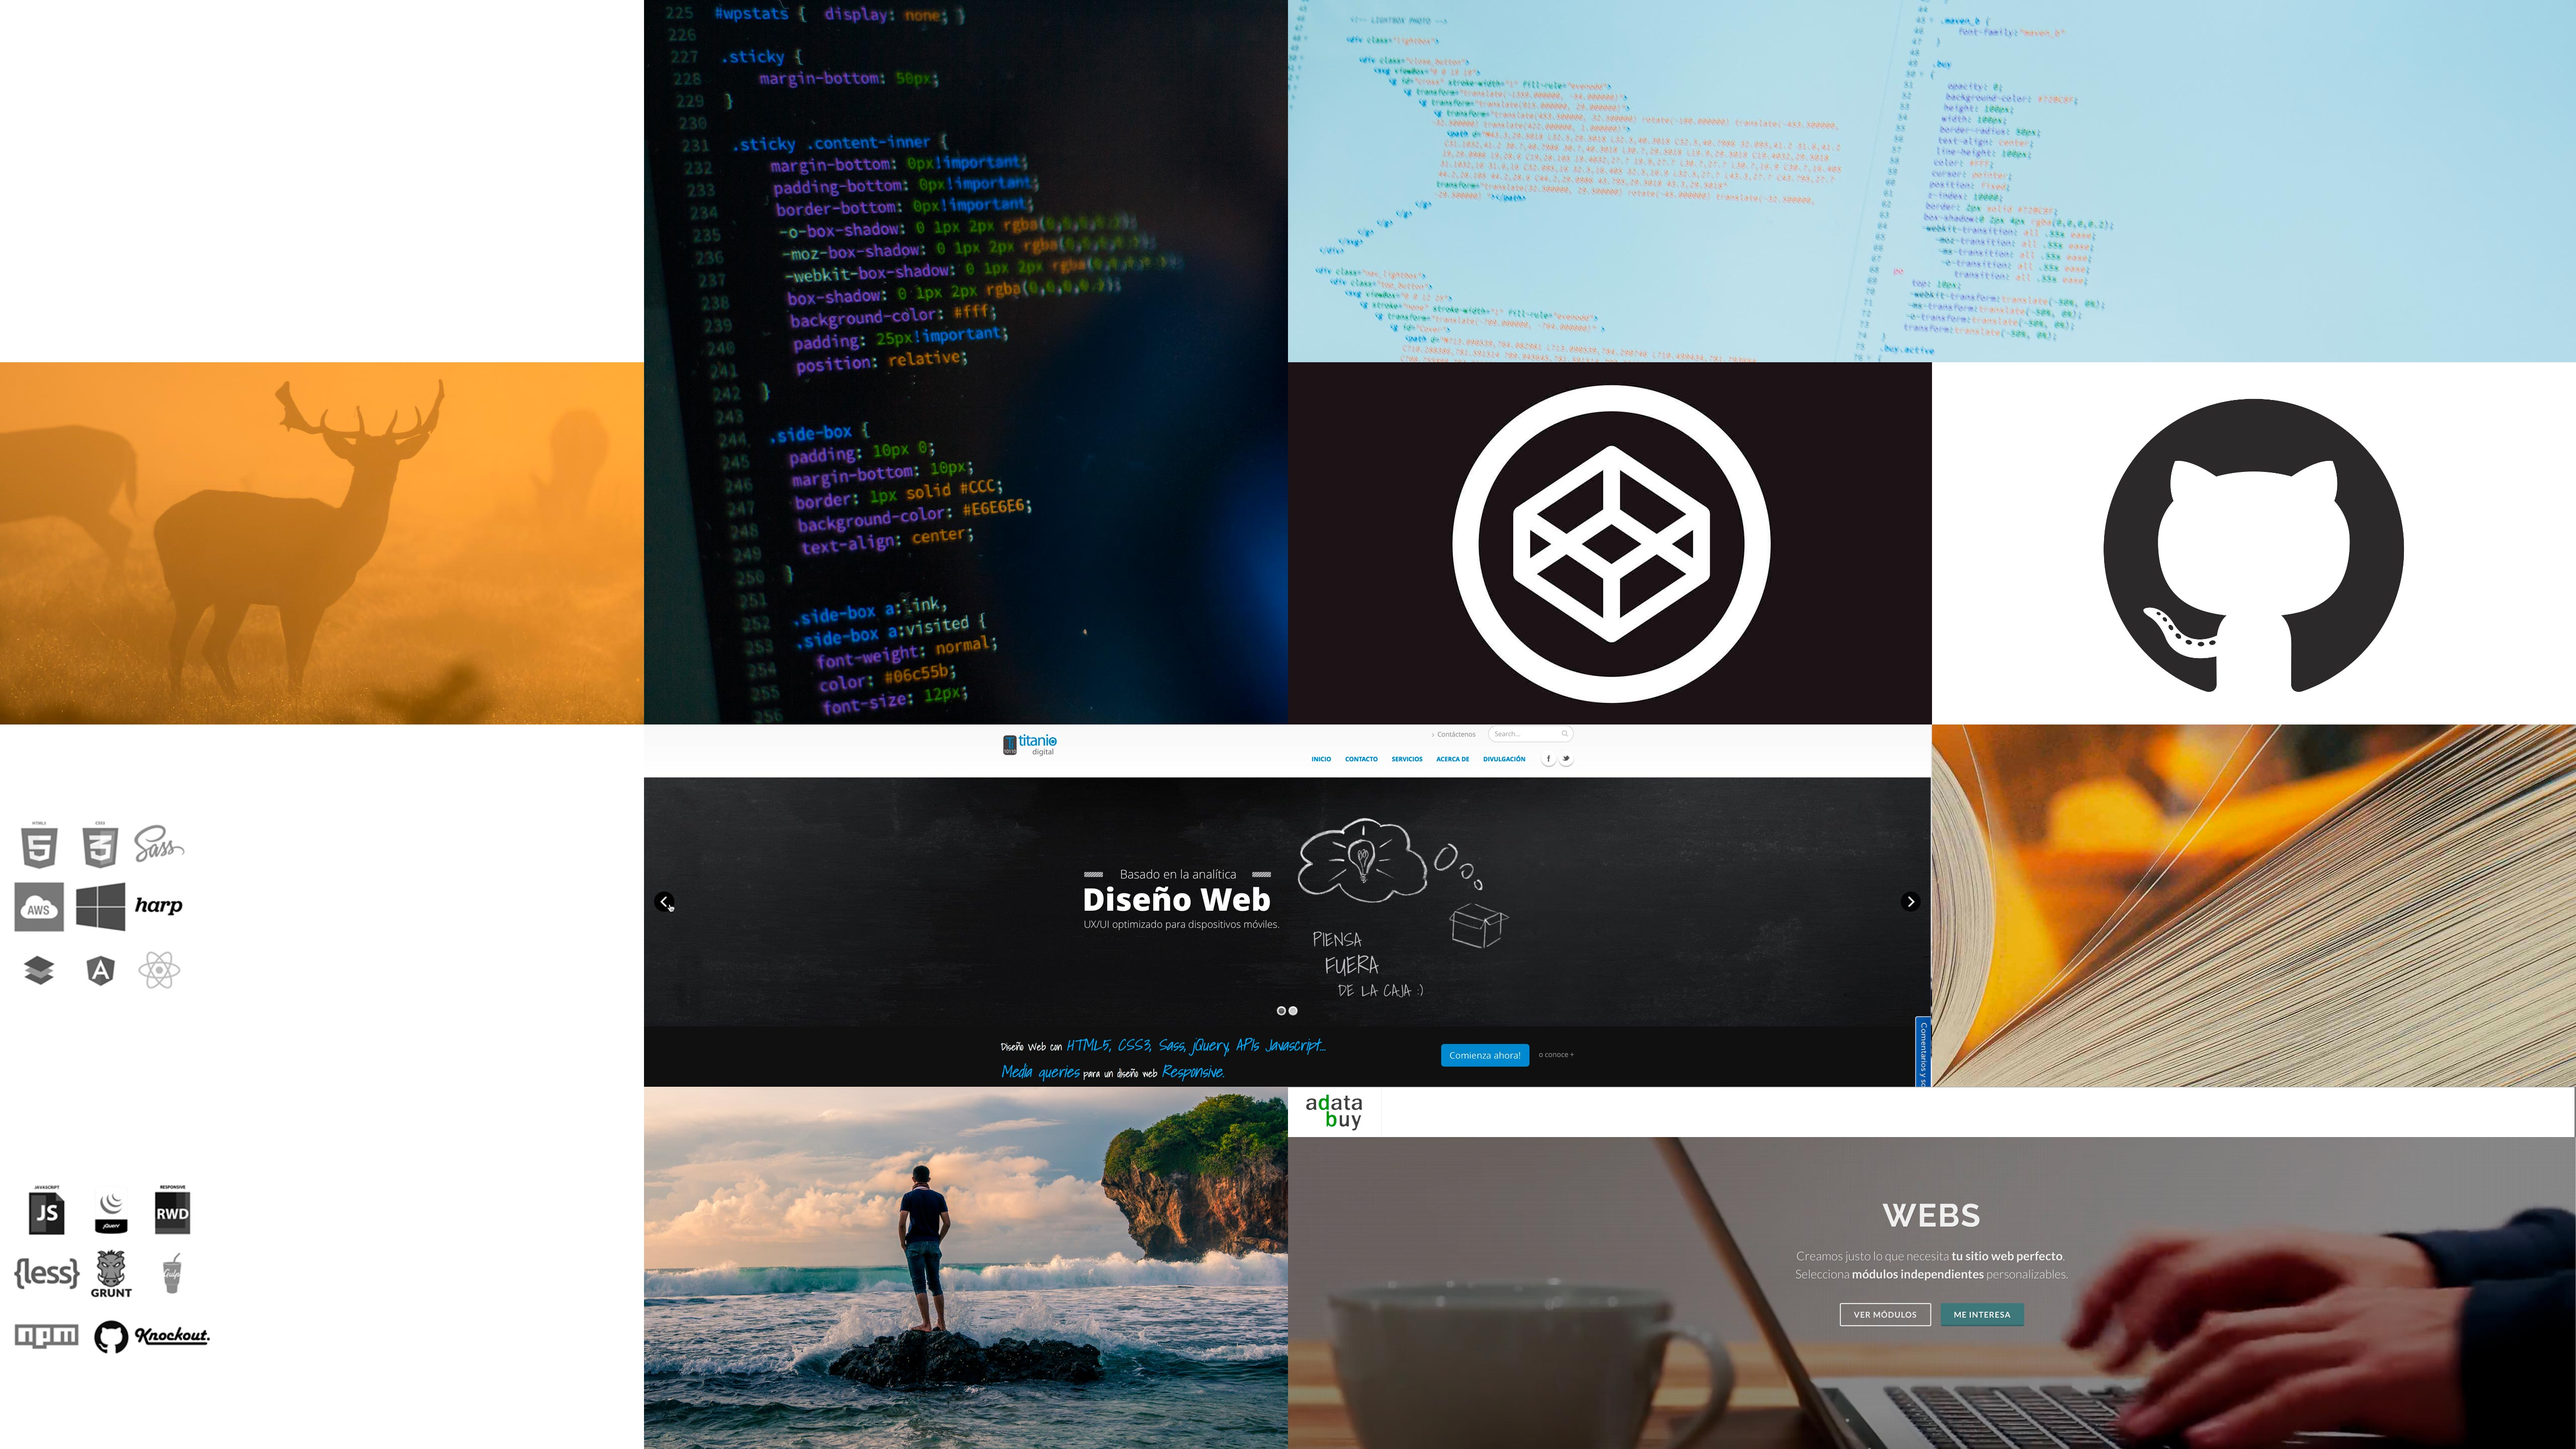
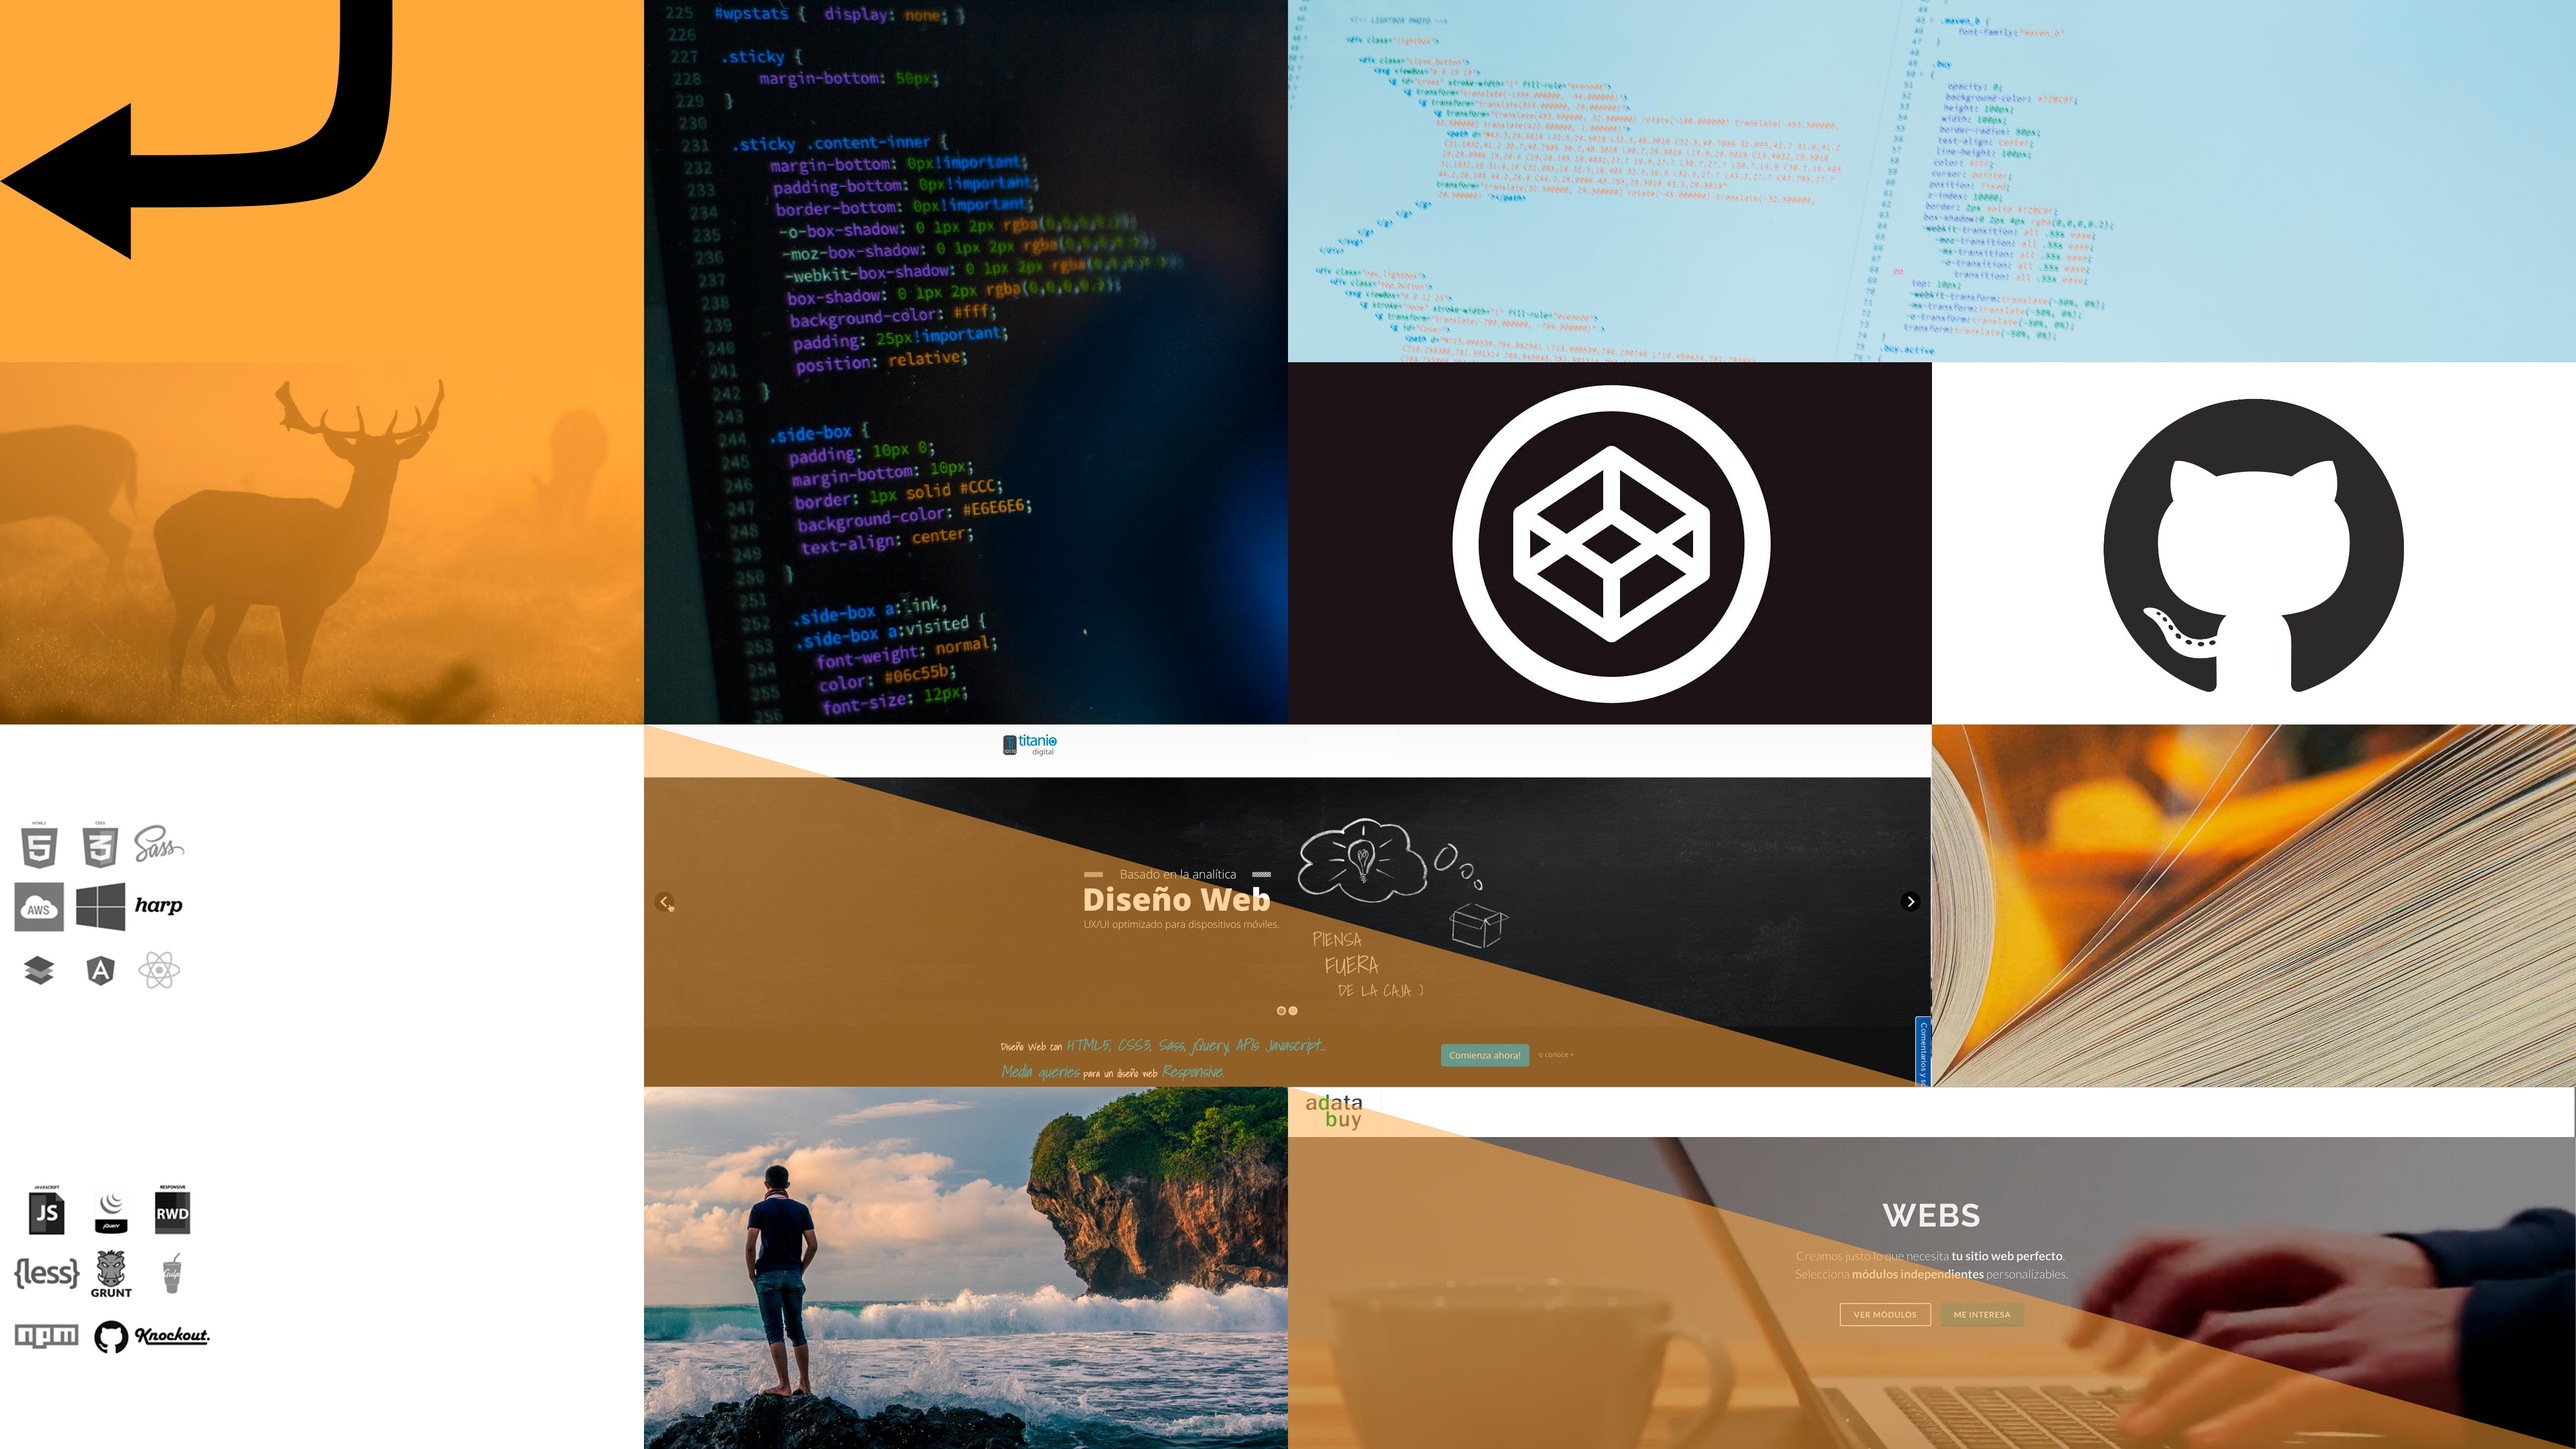
2 enero

Changed region(s): [[0.25, 0.5, 1.0, 1.0], [0.0, 0.0, 0.25, 0.25], [0.5625, 0.5, 0.5938, 0.5312]]

diff --git a/css/estilos.css b/css/estilos.css
@@ -217,7 +217,14 @@ body {
     background-repeat: no-repeat;
 }
 
-#grid ul li:first-child   { width: 25%; height: 25%; top:   0; left:   0; background-image: url(../images/rReturn_arrow.png); }
+#grid ul li:first-child   { 
+    width: 25%; 
+    height: 25%; 
+    left:   0; 
+    top:   0; 
+    background-image: url(../images/bg_css_francisco.jpg); 
+    background-position: 0% 0%; 
+    background-attachment: fixed;}
     
     
 #grid ul li:nth-child(2)  { 
